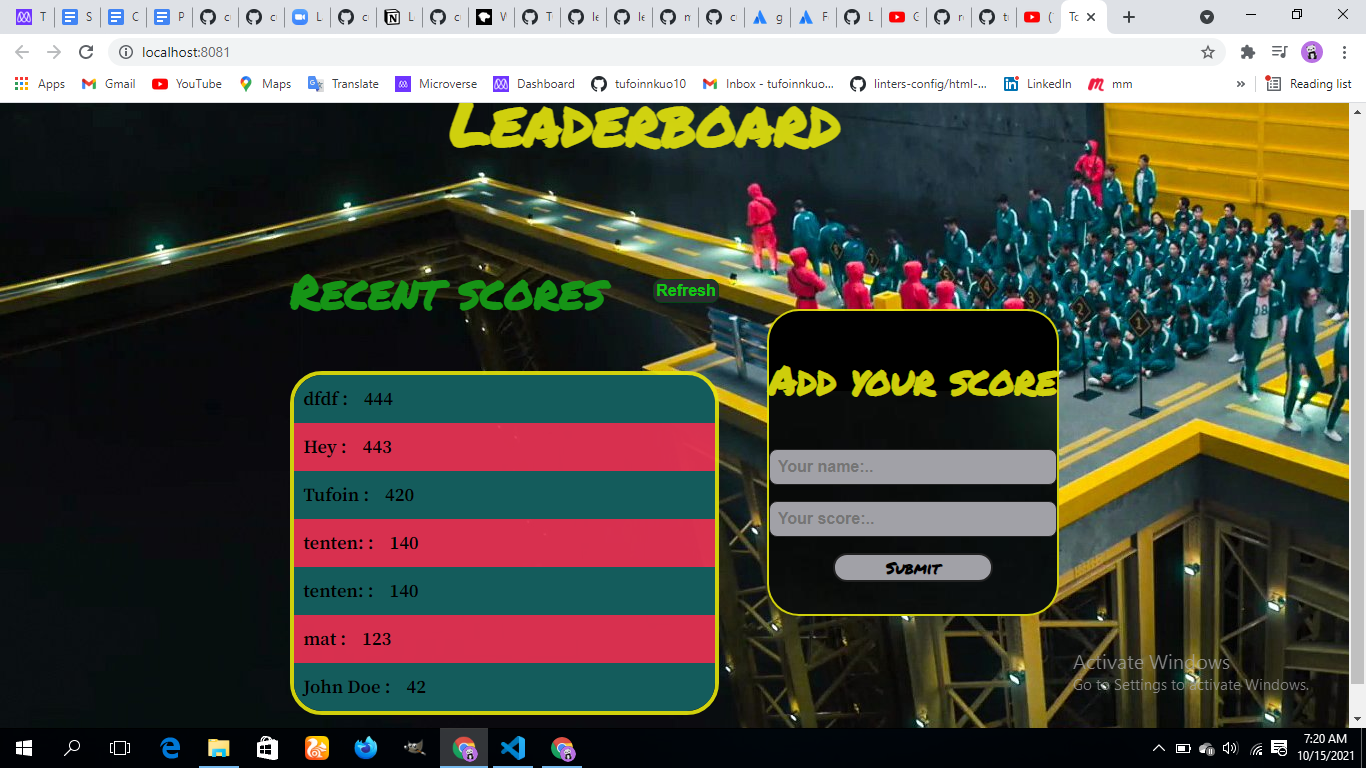
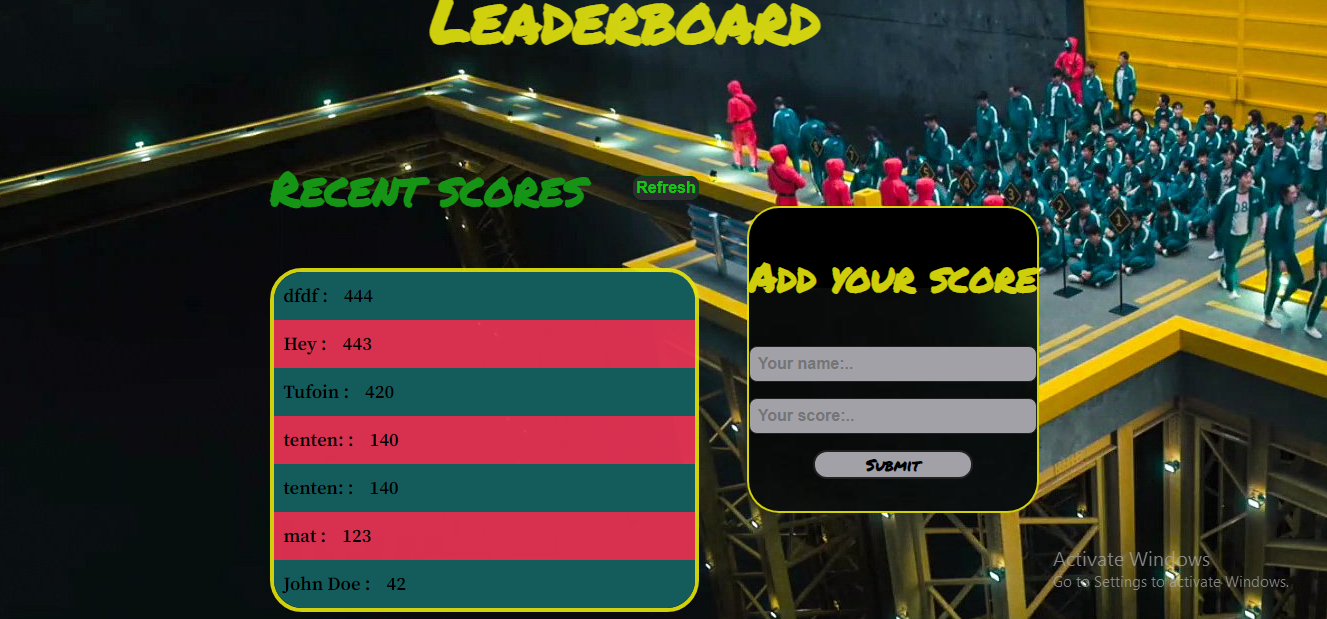
border refresh

diff --git a/src/style.css b/src/style.css
@@ -39,22 +39,21 @@ h1 {
   color: #169416;
 }
 
-.recenth3 {
-
-}
-
 #refresh {
   font-size: 1rem;
   font-weight: bold;
-  color: #12c712;
+  color: #f3edf3;
   padding: 2px;
   background-color: hsl(242deg 4% 18%);
-  border: 1px solid rgb(3, 70, 19);
-  border-radius: 0.5rem;
+  border: 1px solid rgb(4, 12, 6);
+  border-radius: 1rem;
+  font-family: 'Source Serif Pro', serif;
 }
 
 #refresh:hover {
   background-color: #e4e40de8;
+  color: black;
+  font-weight: bold;
 }
 
 #container {
@@ -137,5 +136,4 @@ h1 {
 #submit:hover {
   color: #06648a;
   background-color: #e4e40de8;
-
 }
